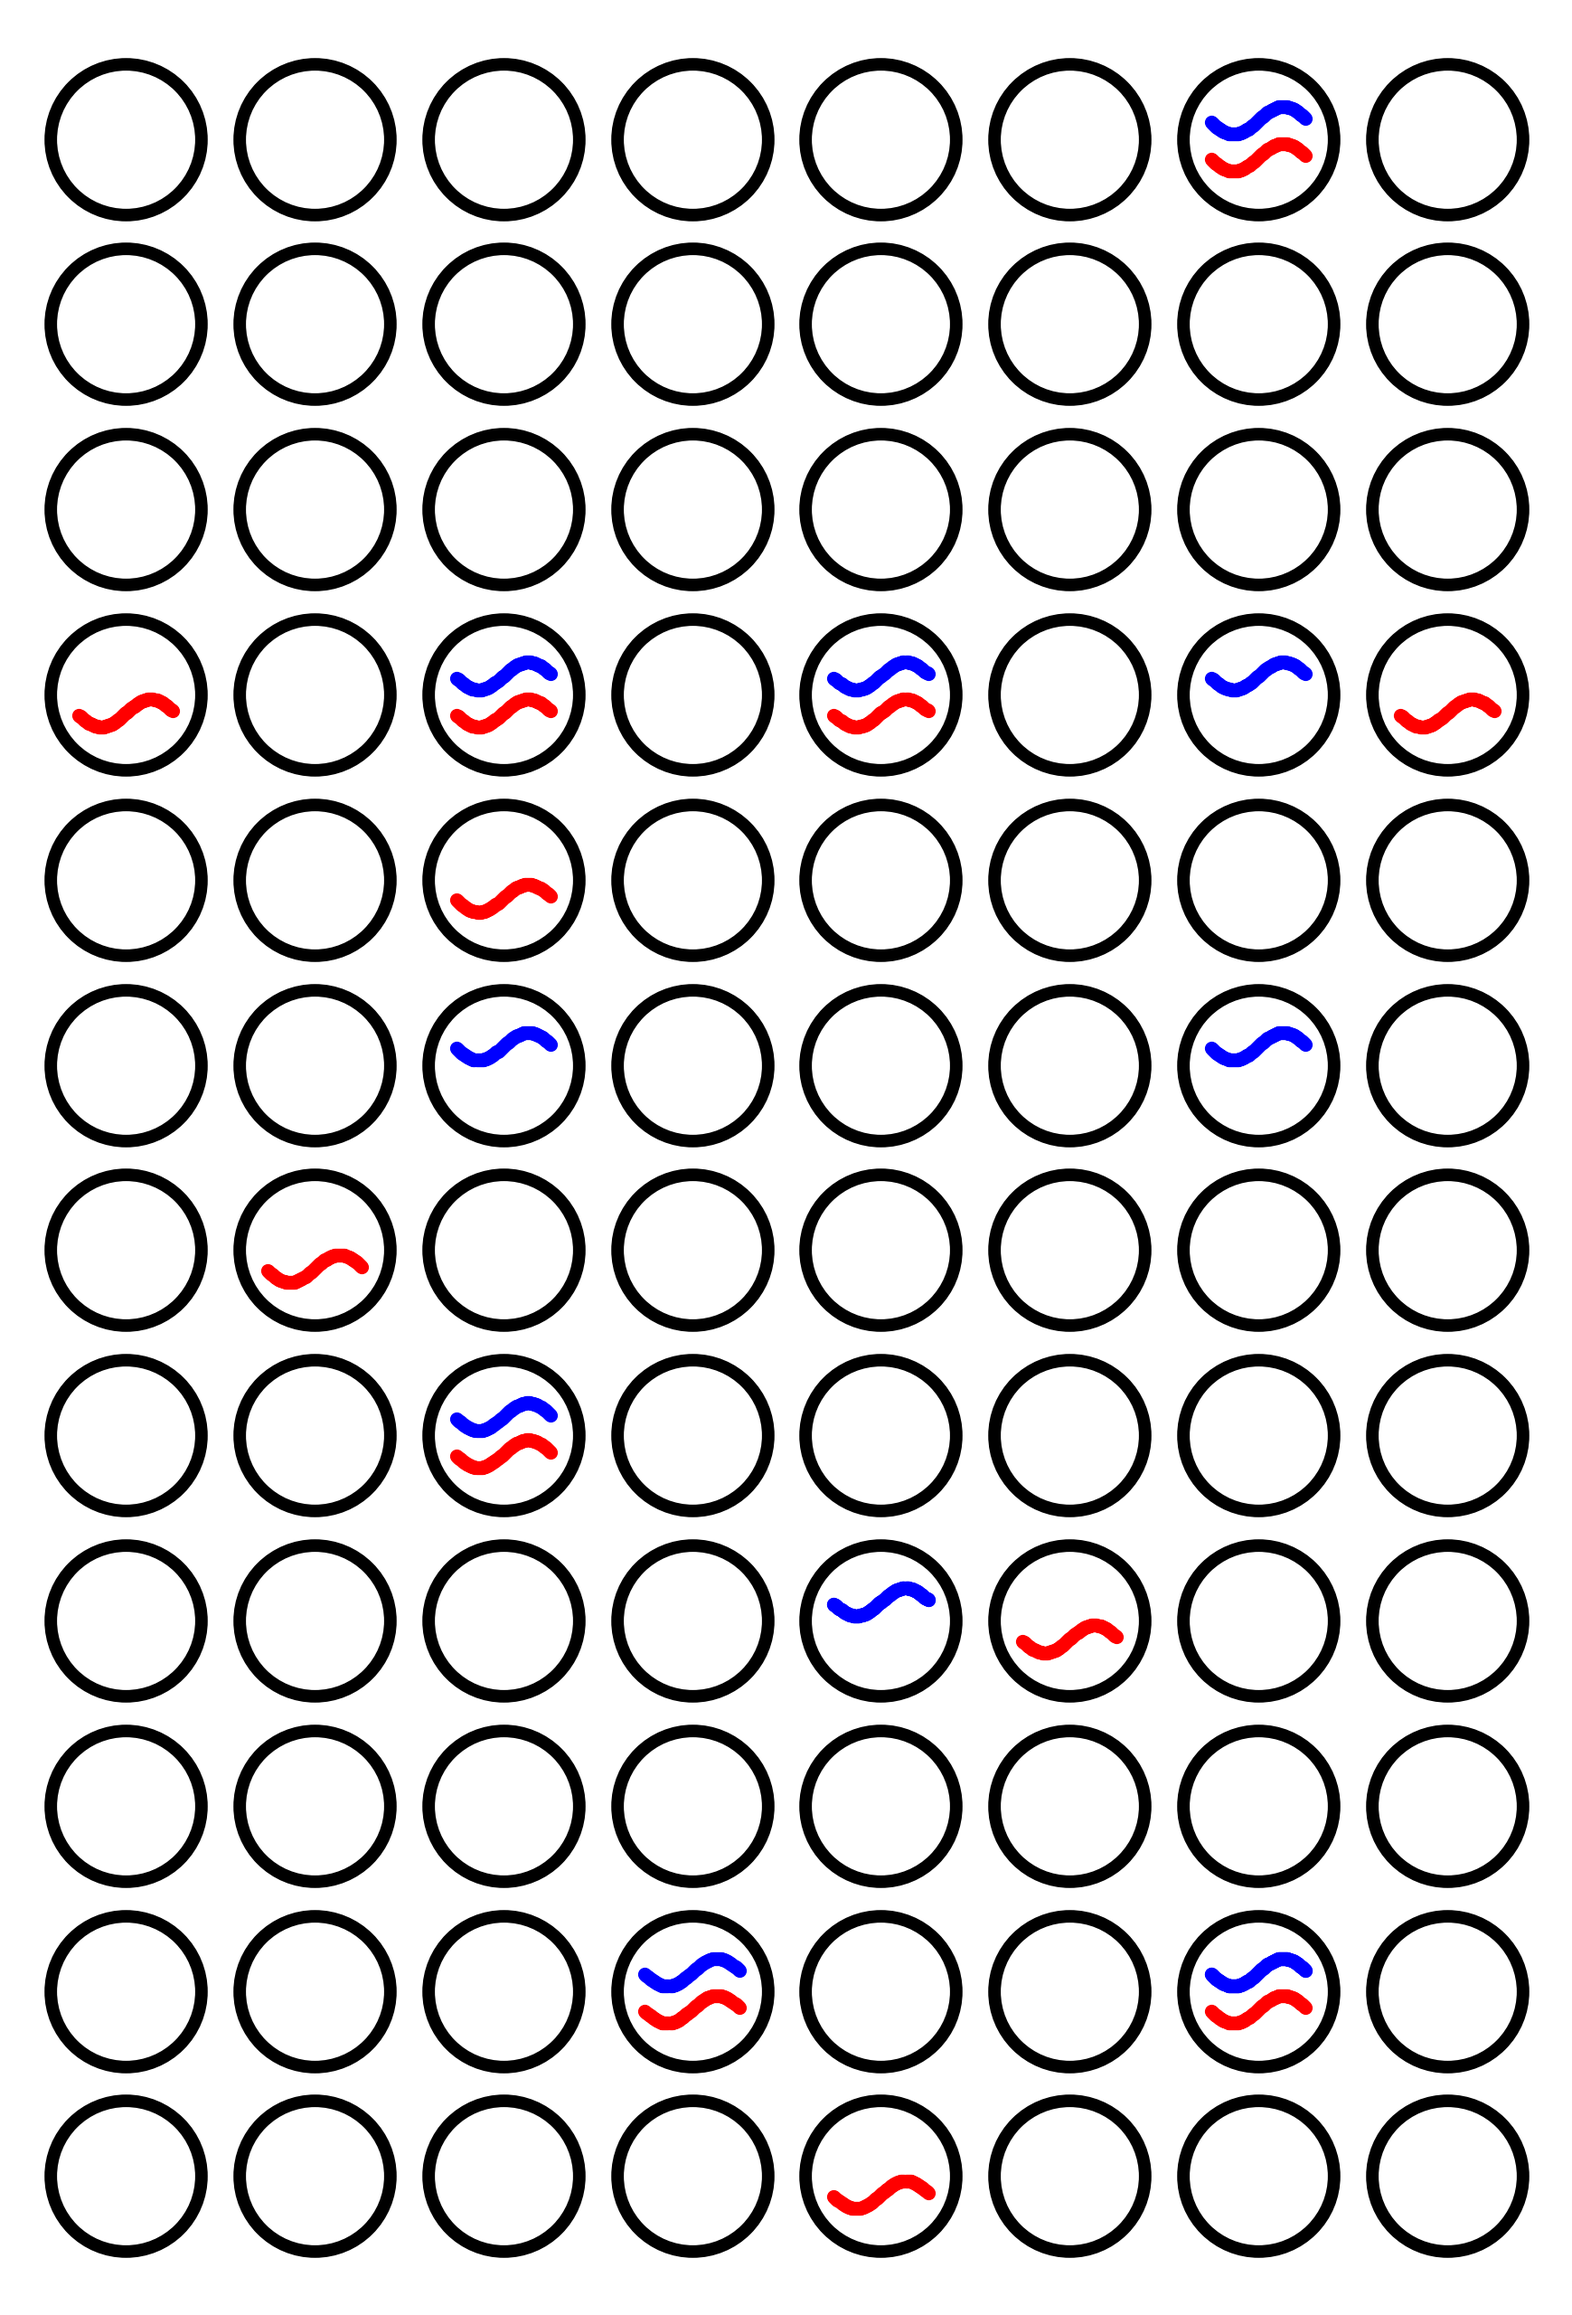
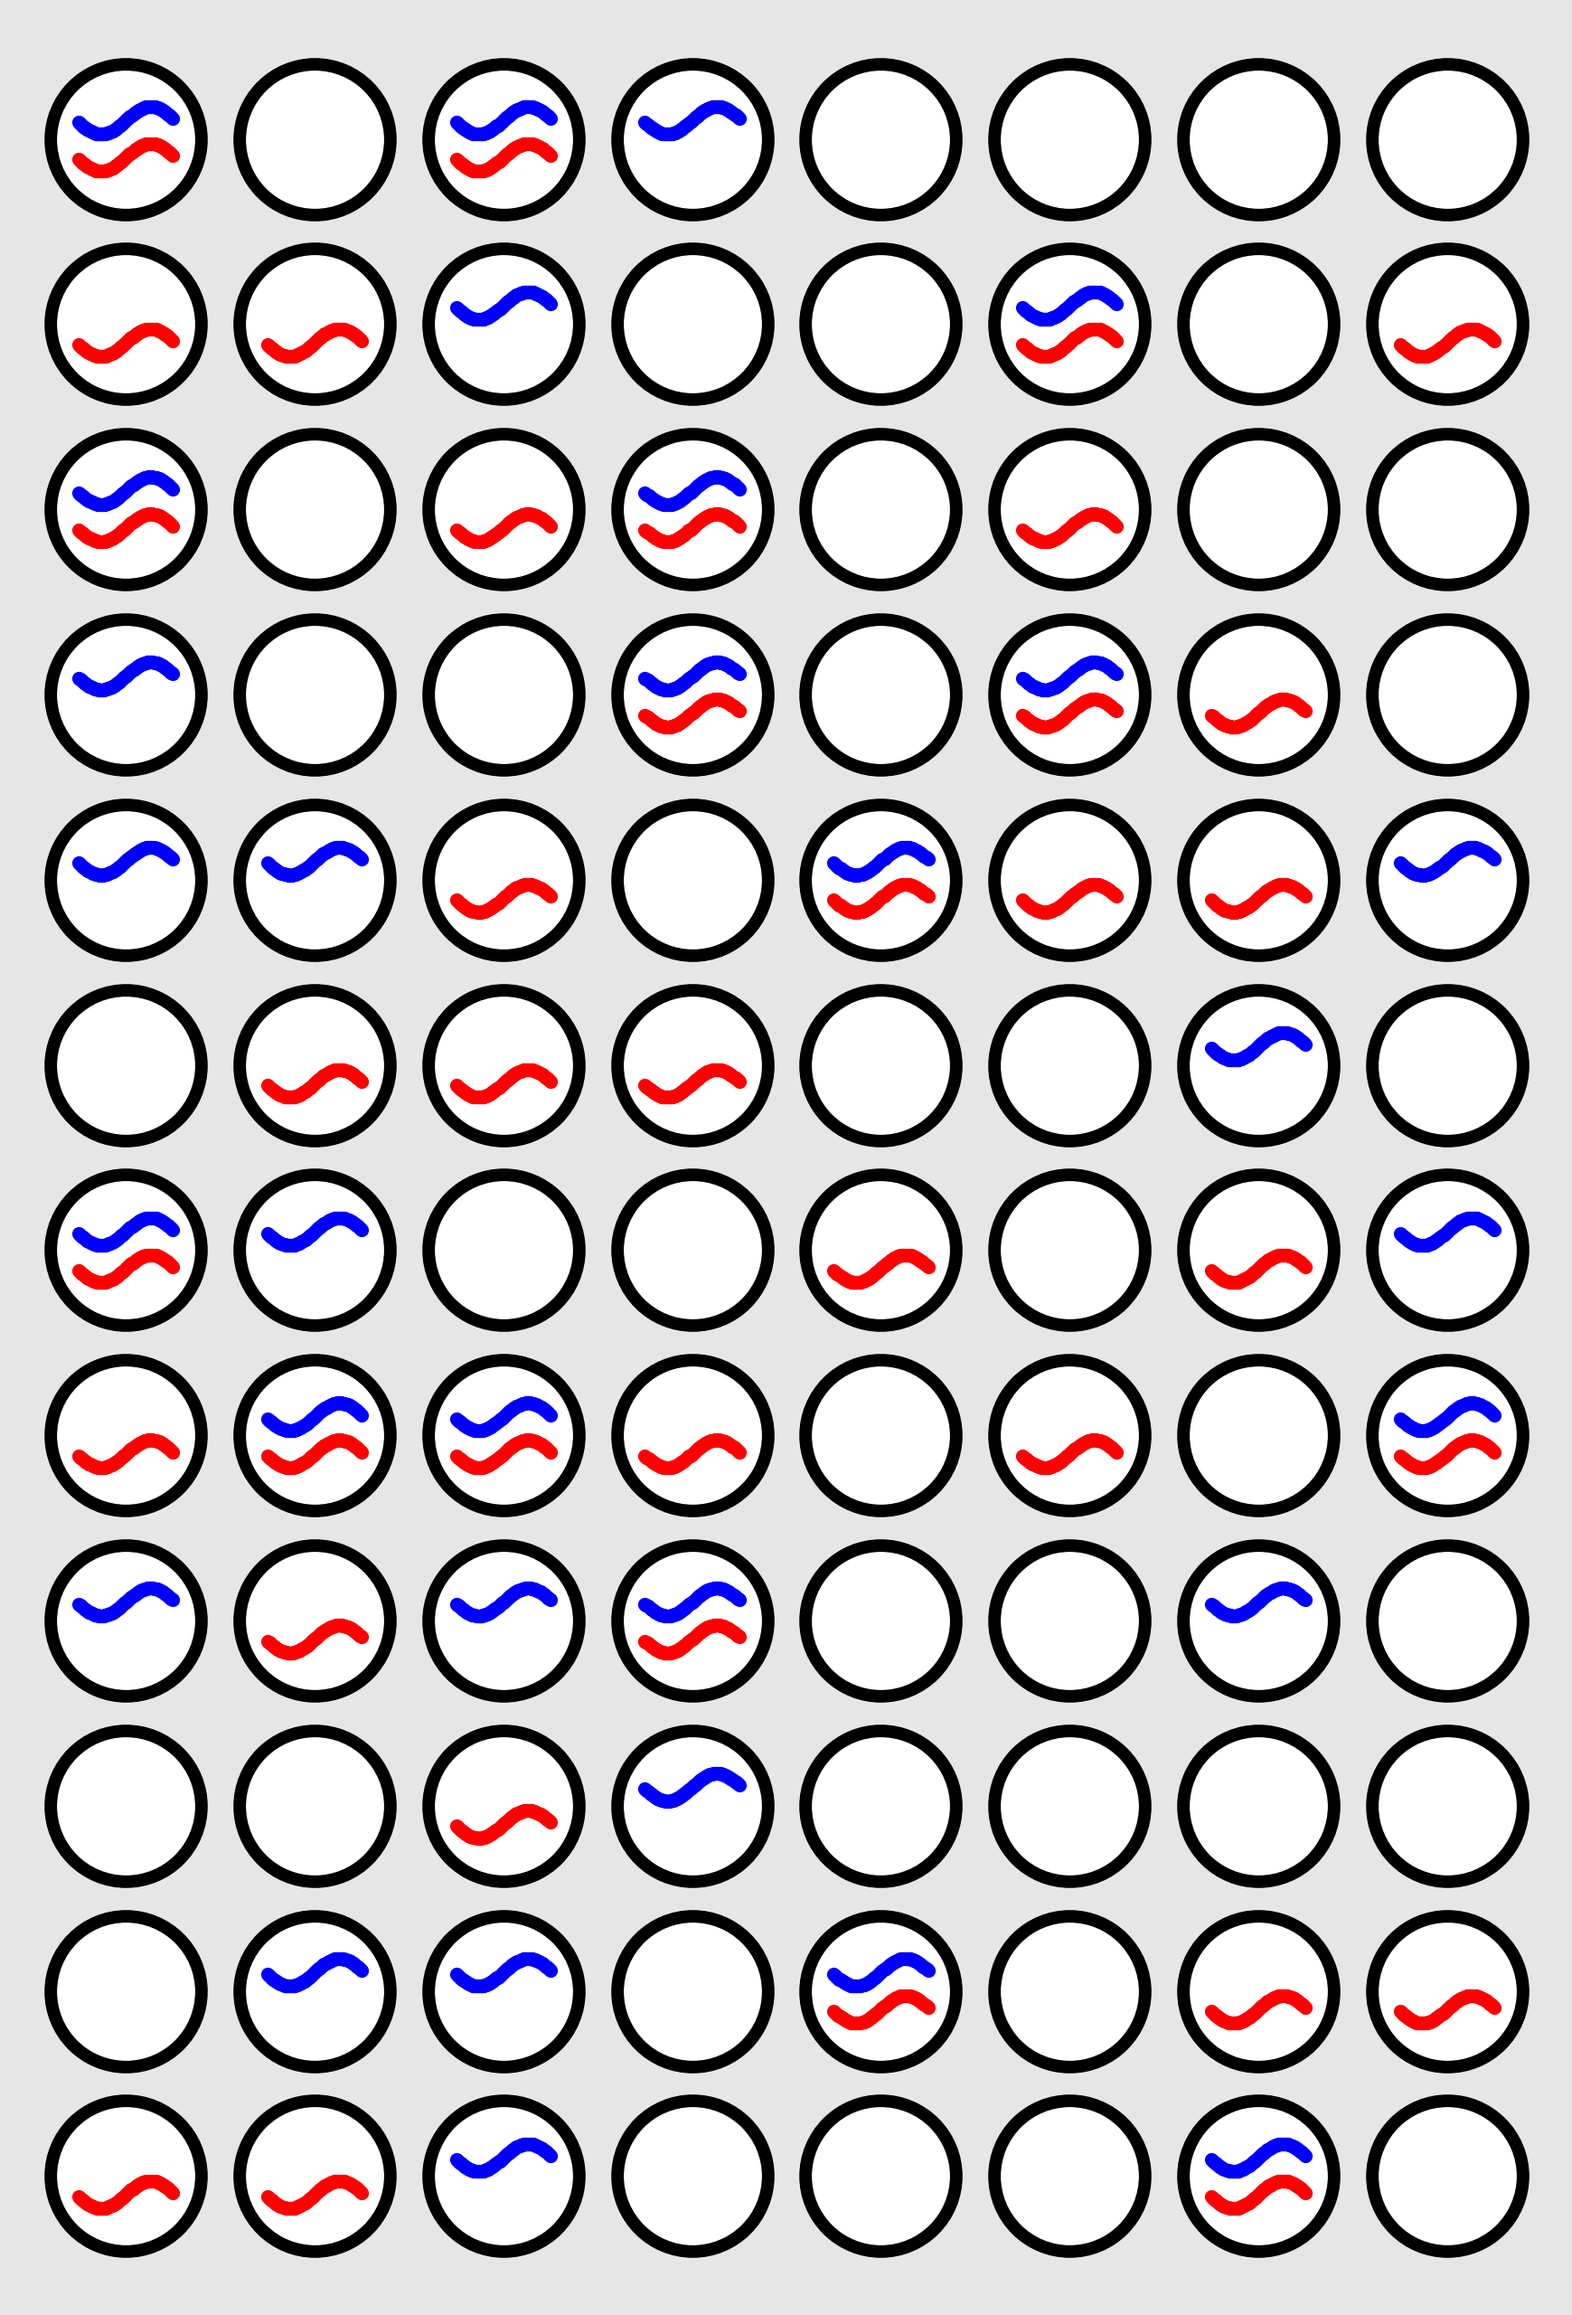
adding robust options to fig1 generation

diff --git a/figures/fig1.py b/figures/fig1.py
@@ -19,6 +19,11 @@ def main(*args,**kwargs):
     well_edge_size = 5
     margin = (0.7,2)
 
+    w_i = 15
+    w_j = 16
+    w_ij = 23
+    w_o = 42
+
     x = np.linspace(1,rows,rows)
     y = np.linspace(1,columns,columns)
 
@@ -41,10 +46,14 @@ def main(*args,**kwargs):
 
                     plt.scatter(x_well,y_well,color=well_colors,s=cell_size,zorder=10)
         elif mode == 'dna':
-            w_i = [(x,y) for x,y in zip([4,7,3,5,7,3,3,5,6,8,1,2],[2,2,5,9,12,9,8,1,4,9,9,6])]
-            w_j = w_i[:6] + [(x,y) for x,y in zip([3,7,5,5,7,7],[7,7,4,4,9,2])]
+            combos = [(i,j) for i in xrange(1,rows+1) for j in xrange(1,columns+1)]
+            np.random.shuffle(combos)
+            print combos
 
-            sets = [(w_i,'r',-0.1),(w_j,'b',0.1)]
+            w_i_indices = combos[:w_i+w_ij]
+            w_j_indices = combos[w_ij:w_i+w_j+w_ij]
+
+            sets = [(w_i_indices,'r',-0.1),(w_j_indices,'b',0.1)]
 
             for w,c,shift in sets: 
                 for x,y in w:
@@ -60,8 +69,8 @@ def main(*args,**kwargs):
         plt.xlim([0.5,rows+0.5])
         plt.ylim([0.5,columns+0.5])
         plt.axis('off')
-        fig.patch.set_facecolor([1.0,1.0,1.0])
-        #fig.patch.set_facecolor([0.9,0.9,0.9])
+        #fig.patch.set_facecolor([1.0,1.0,1.0])
+        fig.patch.set_facecolor([0.9,0.9,0.9])
         plt.subplots_adjust(left=0.02, right=0.98, top=0.98, bottom=0.02)
 
         #plt.savefig('myfig.png',facecolor=fig.get_facecolor(), edgecolor='none',bbox_inches='tight')

diff --git a/make_diagrams.py b/make_diagrams.py
@@ -22,7 +22,7 @@ settings = {
         'visual':True
         }
 
-#fig1.main()
+fig1.main()
 #fig2.main(settings)
 
 
